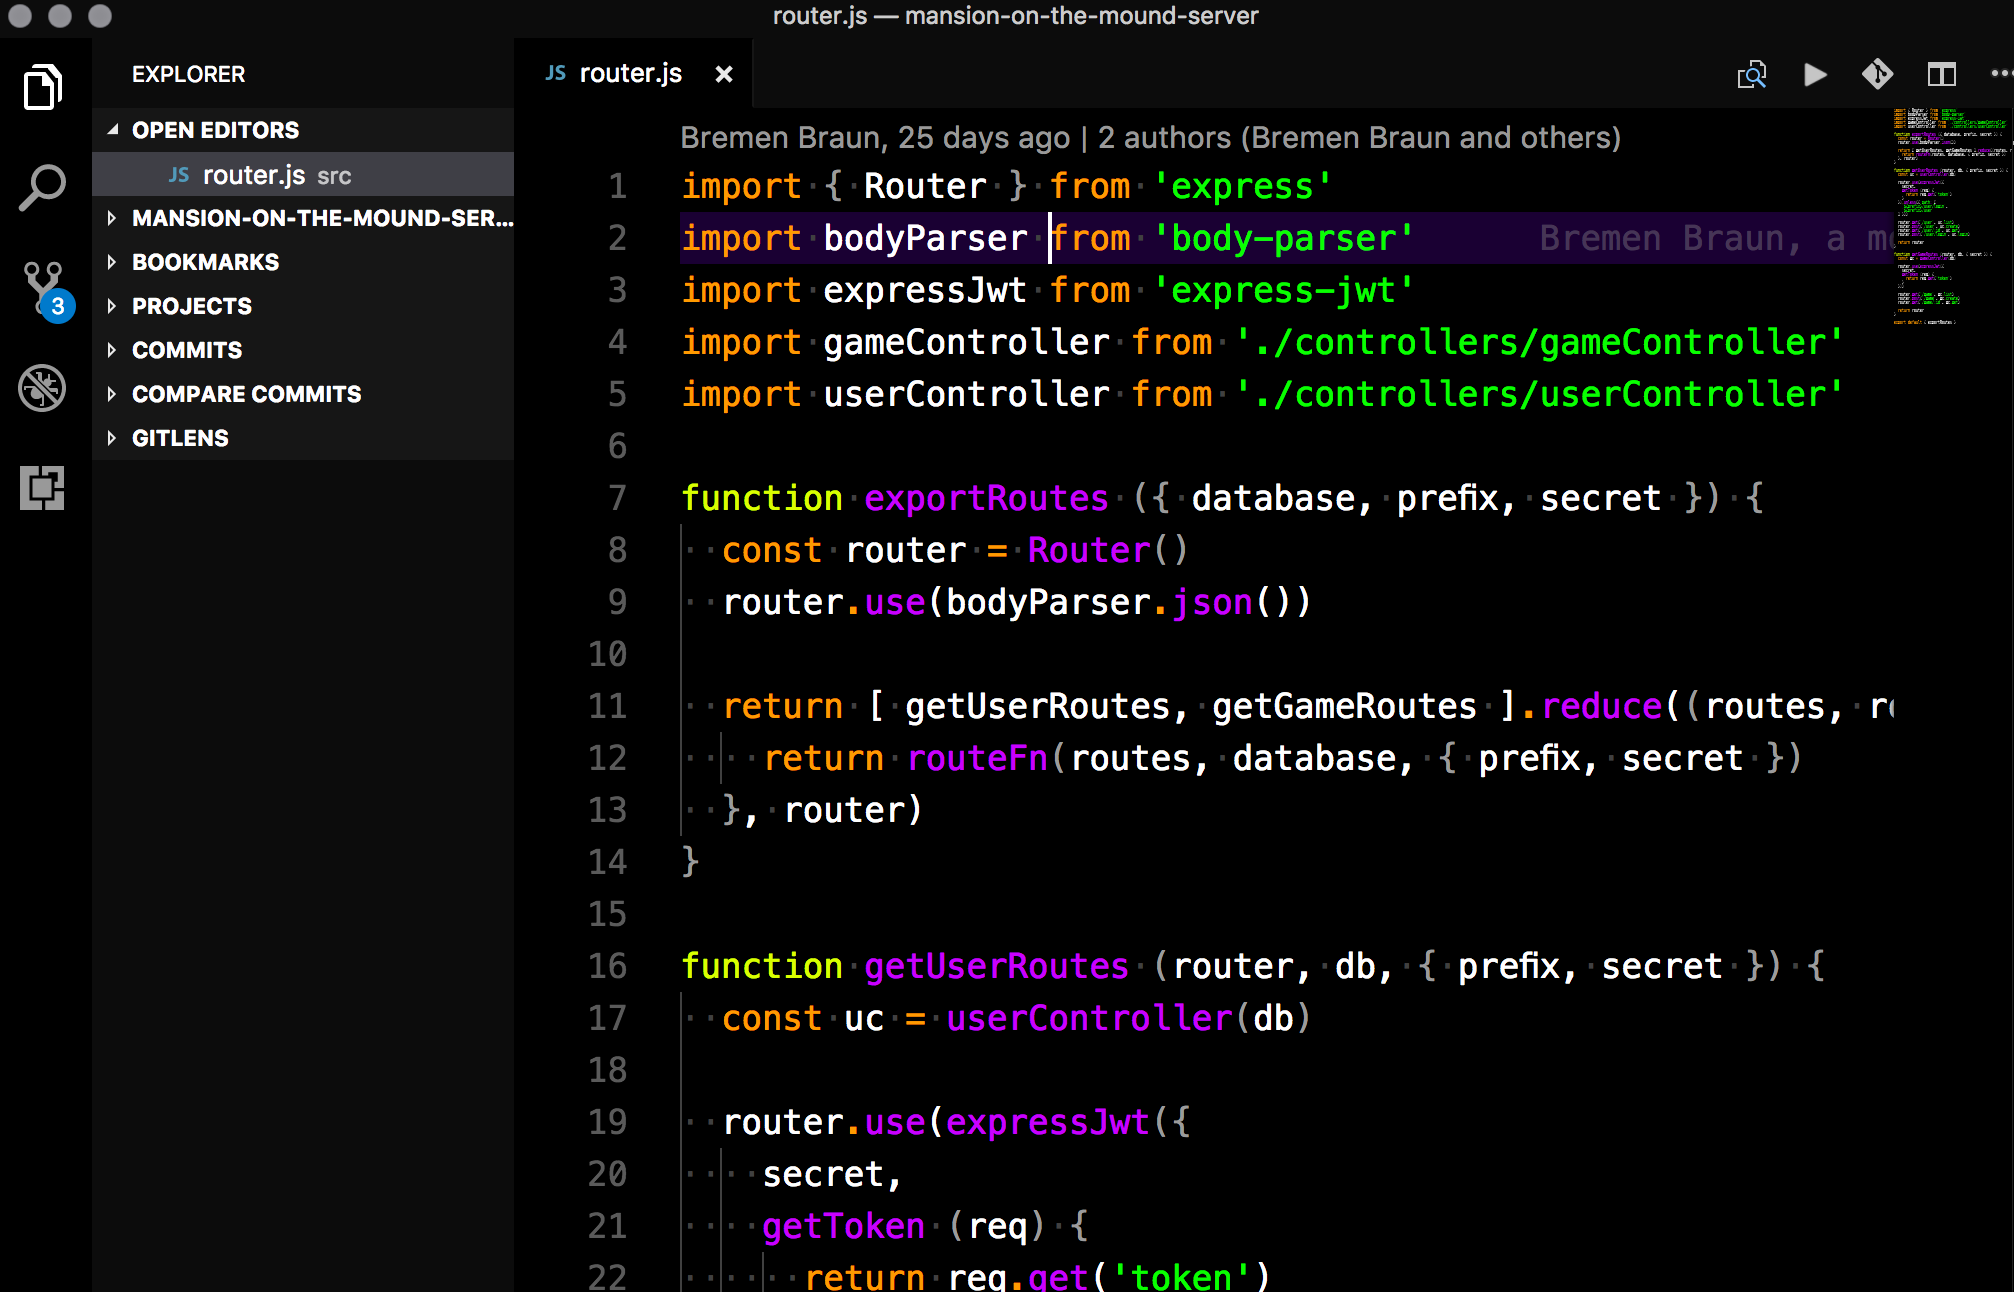
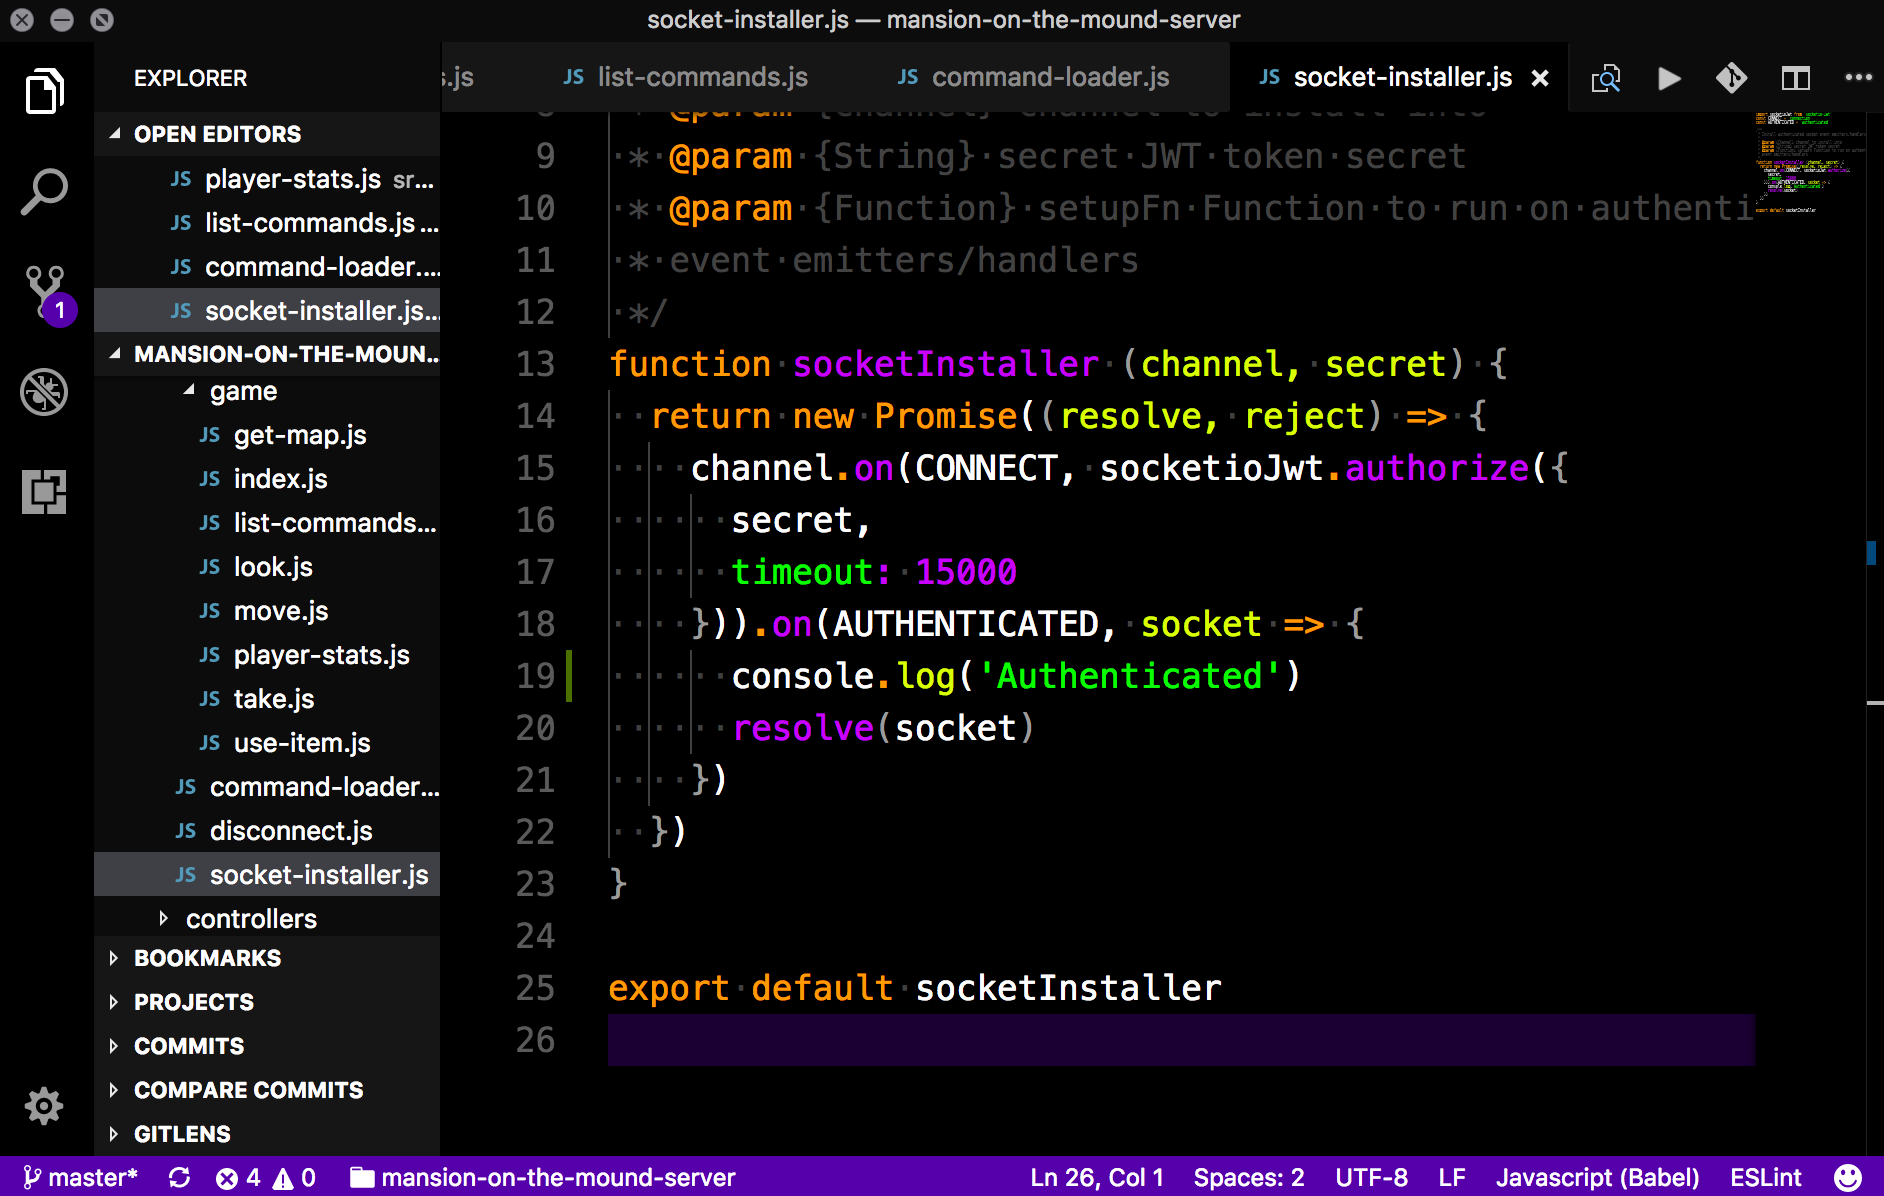
Updated screenshot to reflect latest version

diff --git a/CHANGELOG.md b/CHANGELOG.md
@@ -28,3 +28,6 @@ Check [Keep a Changelog](http://keepachangelog.com/) for recommendations on how 
 ## [0.3.1]
 - Colored active file selecton in tree view
 - Modified status bar color for debugging
+
+## [0.3.2]
+- Updated screenshot to reflect latest version
